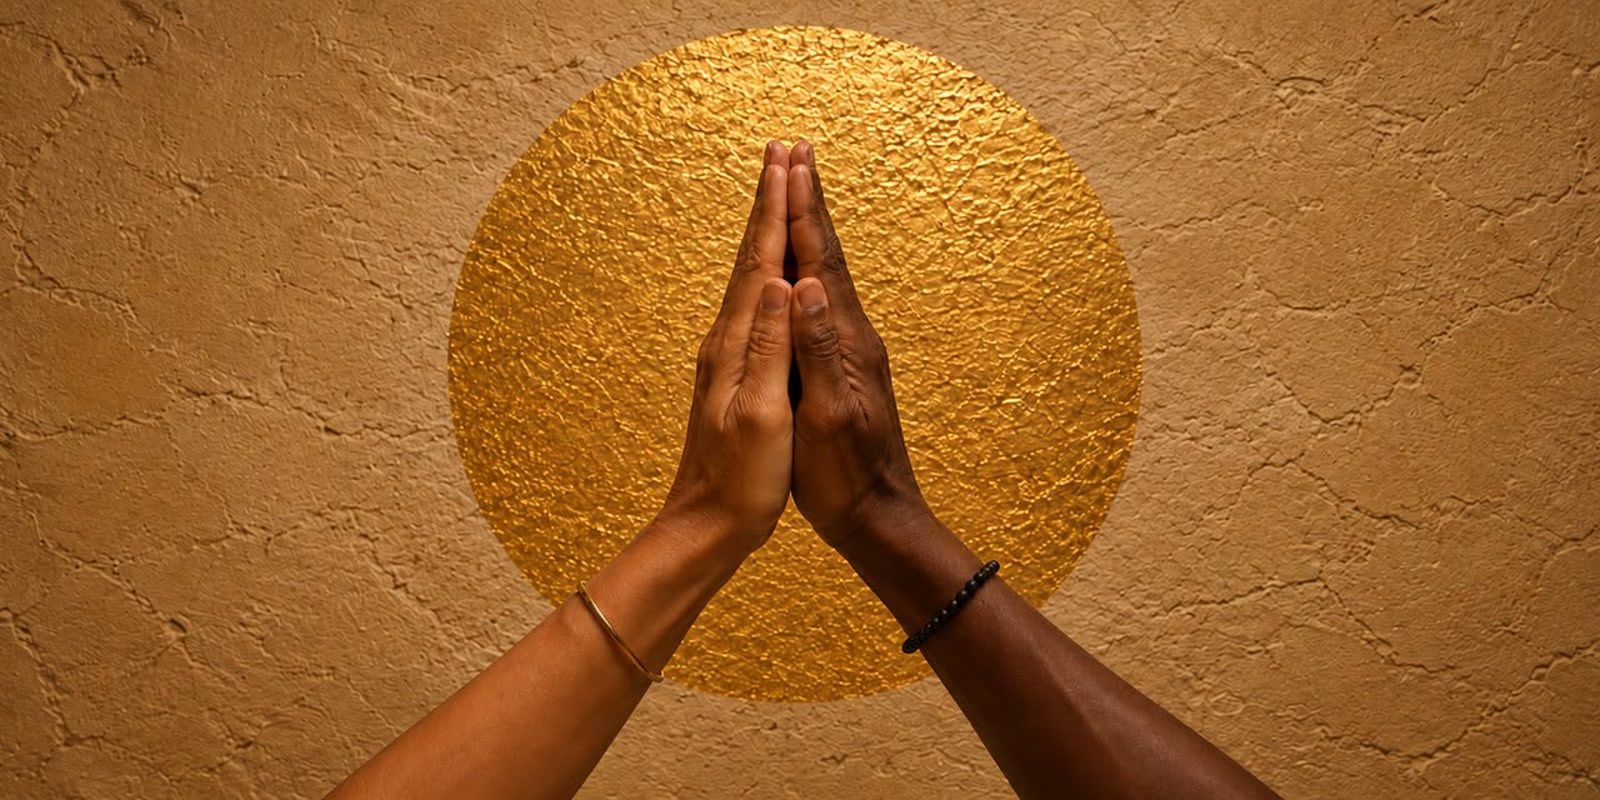
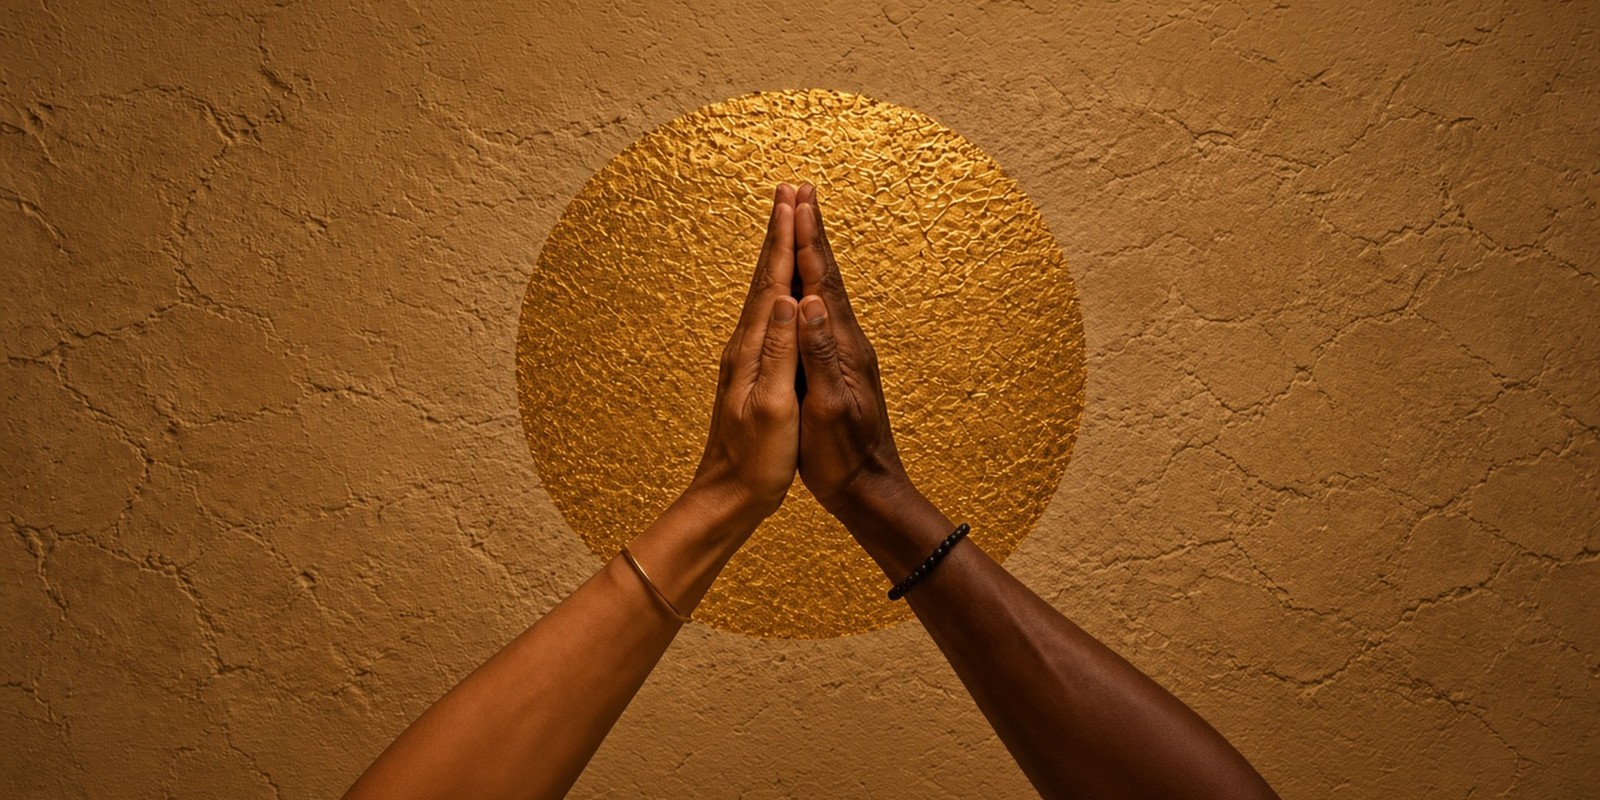
fix(offerings): replace stitched sides with continuous AI hero
Drop the hard-edged side-panel composite. Use a single continuous
AI-wide hero (more clay wall left/right) and fix the desktop
<source type> so Vite cache-bust query strings don't break media
matching on wide screens.

diff --git a/src/routes/offerings/+page.svelte b/src/routes/offerings/+page.svelte
@@ -177,7 +177,7 @@
 
 <div class="grid w-full overflow-hidden" id="content-before-menu">
 	<!-- hero image layer -->
-	<div class="col-start-1 row-start-1">
+	<div class="col-start-1 row-start-1 h-72 w-full overflow-hidden md:h-[550px]">
 		<picture>
 			{#each Object.entries(offeringHeroMobile.sources) as [format, srcset] (format)}
 				<source media="(max-width: 499px)" {srcset} type={`image/${format}`} />
@@ -185,7 +185,7 @@
 			<source
 				media="(min-width: 1100px)"
 				srcset={offeringHeroDesktopUrl}
-				type="image/{offeringHeroDesktopUrl.split(`.`).pop()}"
+				type="image/{offeringHeroDesktopUrl.split(`.`).pop()?.split(`?`)[0]}"
 			/>
 			{#each Object.entries(offeringHeroTablet.sources) as [format, srcset] (format)}
 				<source {srcset} type={`image/${format}`} />
@@ -195,7 +195,7 @@
 				width={offeringHeroTablet.img.w}
 				height={offeringHeroTablet.img.h}
 				alt="Hero"
-				class="h-72 w-full object-cover object-center md:h-[550px]"
+				class="h-full w-full object-cover object-center"
 			/>
 		</picture>
 	</div>
